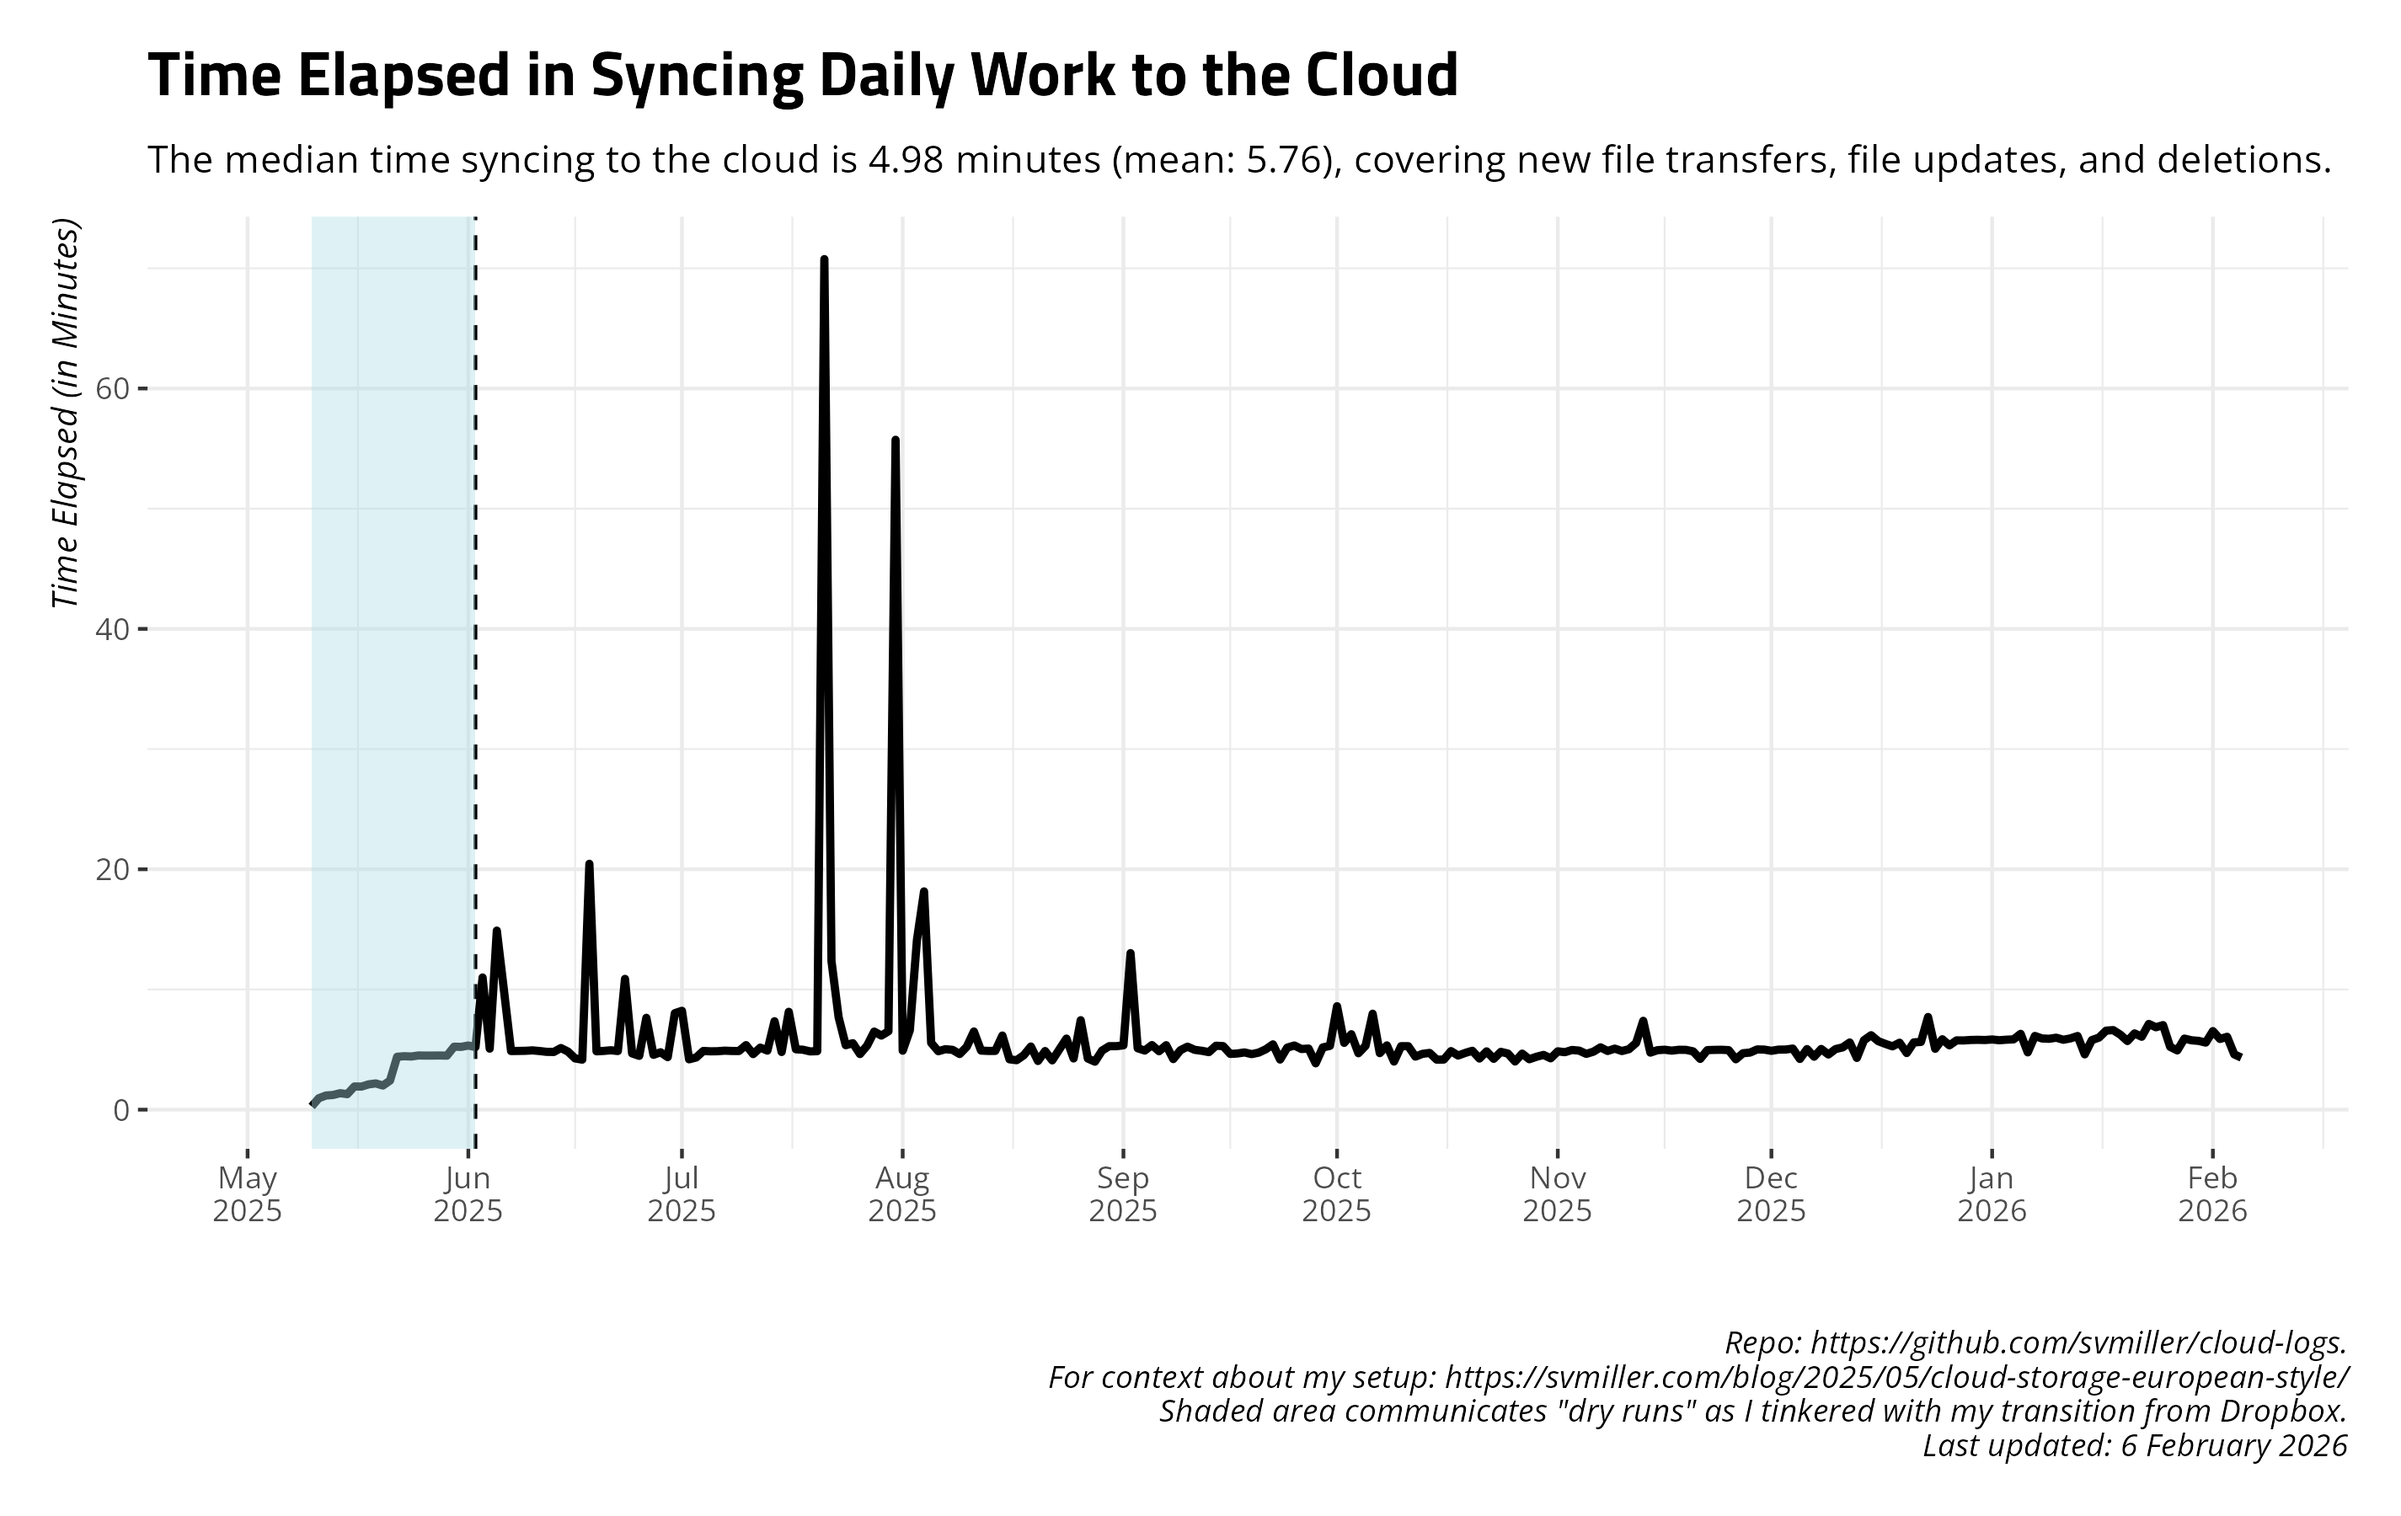
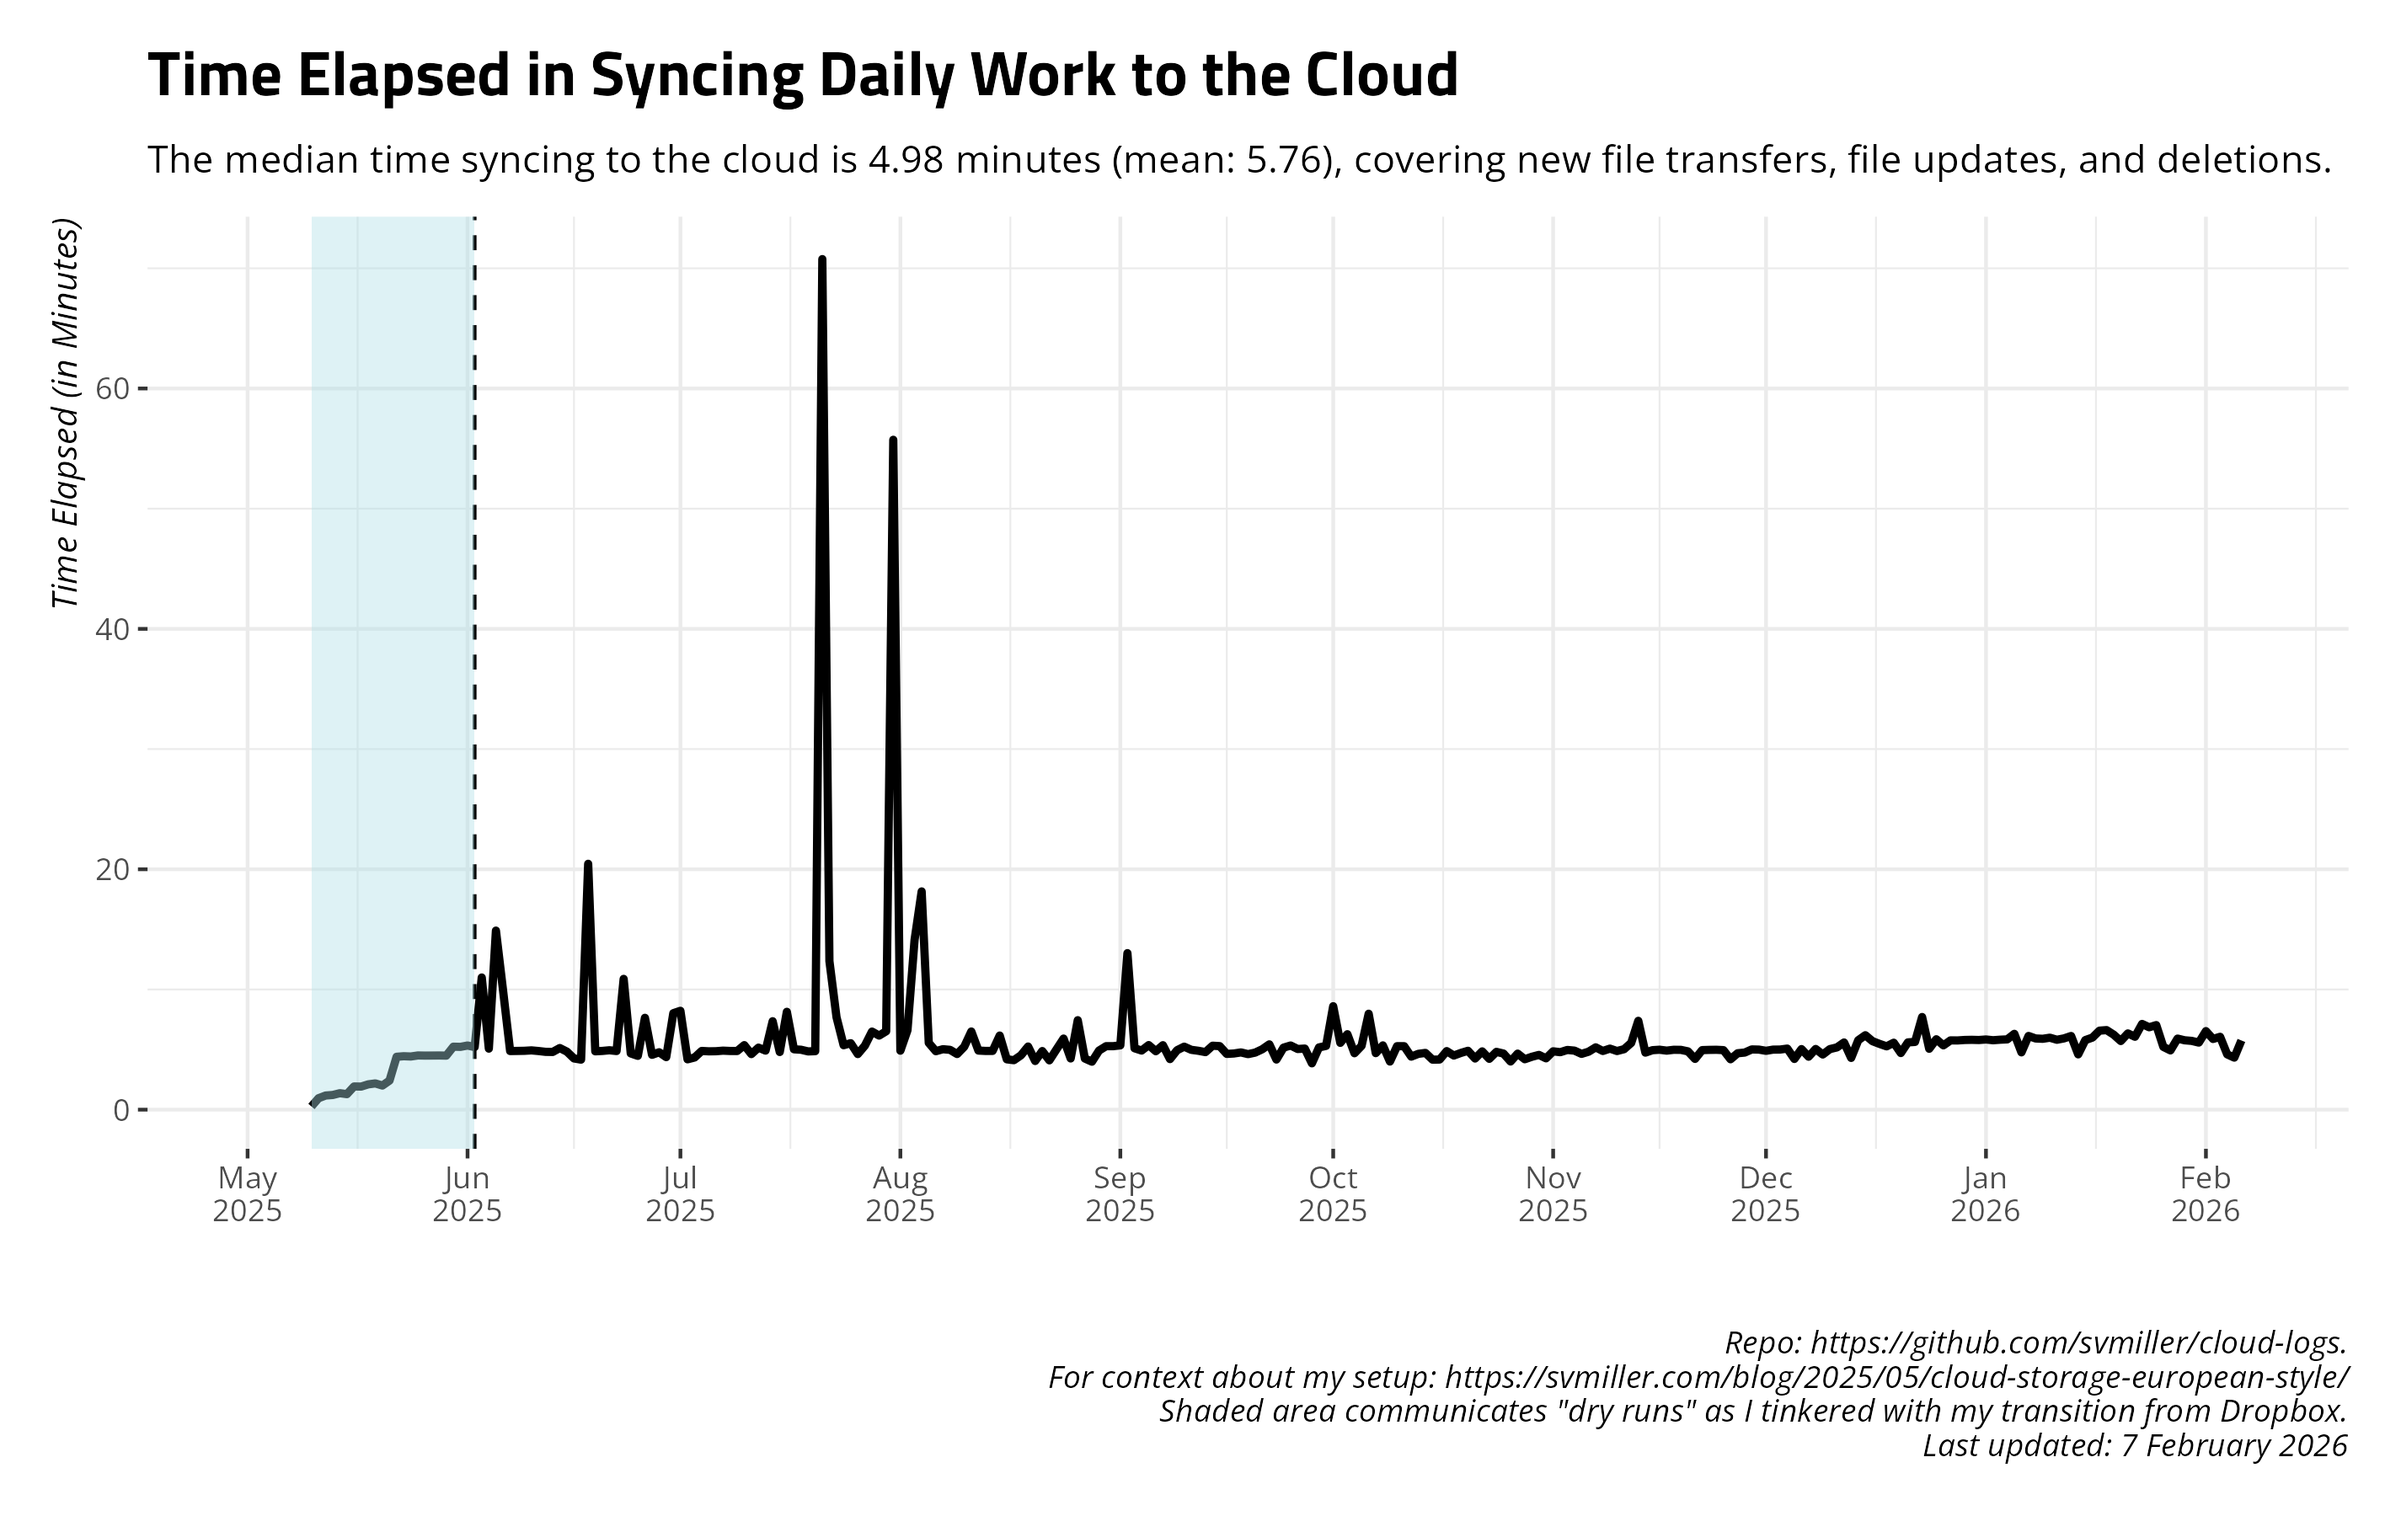
Date: 2026-02-07 09:00:22. Hi mom!

diff --git a/README.md b/README.md
@@ -27,17 +27,17 @@ and uploads to Github.
     #> # A tibble: 14 × 4
     #>    date       ftransfer stransfer   elapsed
     #>    <date>         <dbl> <chr>       <chr>  
-    #>  1 2026-01-23         0 <NA>        7m7.9s 
-    #>  2 2026-01-24         0 <NA>        6m51.3s
-    #>  3 2026-01-25        25 115.706 KiB 7m2.1s 
-    #>  4 2026-01-26        24 1.873 MiB   5m13.4s
-    #>  5 2026-01-27        39 3.662 MiB   4m55.8s
-    #>  6 2026-01-28         0 <NA>        5m54.8s
-    #>  7 2026-01-29        69 972.004 KiB 5m46.3s
-    #>  8 2026-01-30        53 449.655 KiB 5m43.3s
-    #>  9 2026-01-31        11 107.900 KiB 5m34.8s
-    #> 10 2026-02-01         1 52.319 KiB  6m32.1s
-    #> 11 2026-02-02        22 2.544 MiB   5m52.9s
-    #> 12 2026-02-03        59 670.650 KiB 6m3.7s 
-    #> 13 2026-02-04        14 2.131 MiB   4m36.0s
-    #> 14 2026-02-05        10 255.844 KiB 4m19.8s
+    #>  1 2026-01-24         0 <NA>        6m51.3s
+    #>  2 2026-01-25        25 115.706 KiB 7m2.1s 
+    #>  3 2026-01-26        24 1.873 MiB   5m13.4s
+    #>  4 2026-01-27        39 3.662 MiB   4m55.8s
+    #>  5 2026-01-28         0 <NA>        5m54.8s
+    #>  6 2026-01-29        69 972.004 KiB 5m46.3s
+    #>  7 2026-01-30        53 449.655 KiB 5m43.3s
+    #>  8 2026-01-31        11 107.900 KiB 5m34.8s
+    #>  9 2026-02-01         1 52.319 KiB  6m32.1s
+    #> 10 2026-02-02        22 2.544 MiB   5m52.9s
+    #> 11 2026-02-03        59 670.650 KiB 6m3.7s 
+    #> 12 2026-02-04        14 2.131 MiB   4m36.0s
+    #> 13 2026-02-05        10 255.844 KiB 4m19.8s
+    #> 14 2026-02-06         0 <NA>        5m45.5s
